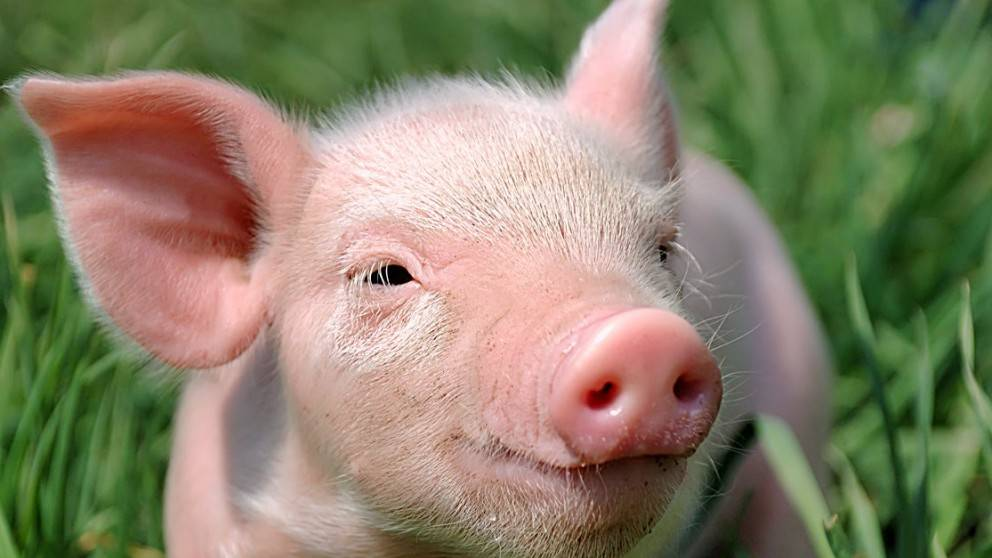
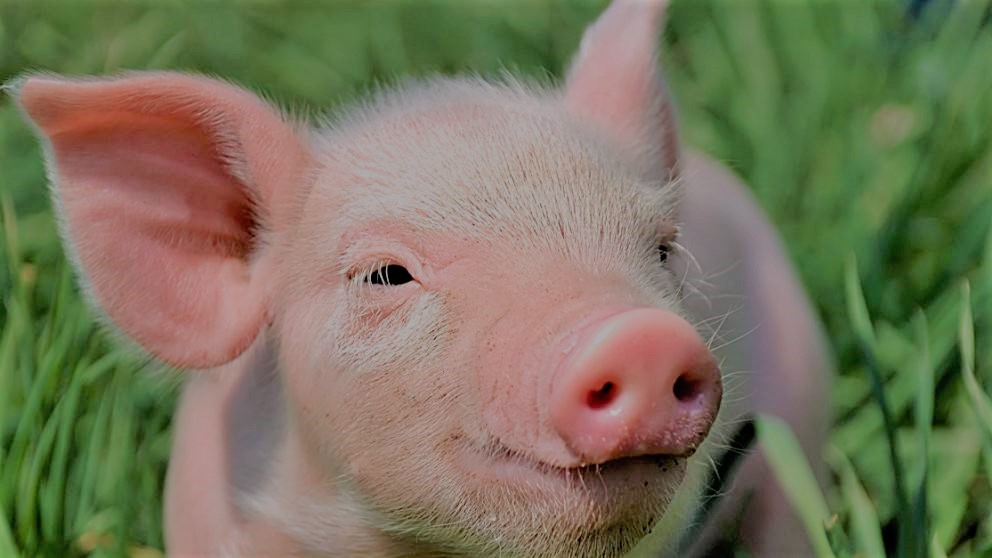
06.11.17 17:20

diff --git a/index.html b/index.html
@@ -14,7 +14,20 @@
 <script type="text/javascript" src="js/materialize.min.js"></script>
 <script> 
 $(document).ready(function(){
-  $('.slider').slider();
+  $('.slider').slider({
+  indicators: false,
+  height: 450,
+  interval: 4000});
+});
+</script>
+<script>
+$(window).scroll(function() {
+  if ($(window).scrollTop() > 400){
+	$('nav').addClass('scroll_nav');
+	}
+  else {
+	$('nav').removeClass('scroll_nav');
+  }
 });
 </script>
 <div class="navbar-fixed">
@@ -32,7 +45,7 @@ $(document).ready(function(){
 <div class="container">
   <div class="row">
   <!--SLIDER with 3-4 pict-->
-  <div class="slider col s12 m8 offset-m2">
+  <div class="slider col s12 m10 offset-m1">
     <ul class="slides">
 	  <li>
 	    <img class="img-slider" src="images/pig1.jpg">
@@ -65,20 +78,14 @@ $(document).ready(function(){
   <!-- 3 col with pict or icons -->
   <div class="row">
     <div class="col s12 m4">
-	  <div class="card green lighten-3">
-	    <div class="card-content white-text">
-		  <span class="card-title"></span>
-		  <p></p>
-		</div>
-	  </div>
-	</div>
 	</div>
 	<div class="col s12 m4">
 	</div>
 	<div class="col s12 m4">
 	</div>
   </div>
-  <div class="col s4 offset-s8">
+  <div class="z-depth-2 col s6 offset-s7">
+  <div class="col s9 offset-s1">
   <form>
   <div class="row">
 	<div class="input-field">
@@ -105,14 +112,35 @@ $(document).ready(function(){
   </div>
   </form>
   </div>
+  </div>
 	
   </div>
   
-  
-  <div class="footer">
-  
-  </div>
 </div>
-
+<footer class="page-footer light-blue lighten-2">
+          <div class="container">
+            <div class="row">
+              <div class="col l6 s12">
+                <h5 class="white-text">Footer Content</h5>
+                <p class="grey-text text-lighten-4">You can use rows and columns here to organize your footer content.</p>
+              </div>
+              <div class="col l4 offset-l2 s12">
+                <h5 class="white-text">Links</h5>
+                <ul>
+                  <li><a class="grey-text text-lighten-3" href="#!">Link 1</a></li>
+                  <li><a class="grey-text text-lighten-3" href="#!">Link 2</a></li>
+                  <li><a class="grey-text text-lighten-3" href="#!">Link 3</a></li>
+                  <li><a class="grey-text text-lighten-3" href="#!">Link 4</a></li>
+                </ul>
+              </div>
+            </div>
+          </div>
+          <div class="footer-copyright">
+            <div class="container">
+            © 2014 Copyright Text
+            <a class="grey-text text-lighten-4 right" href="#!">More Links</a>
+            </div>
+          </div>
+        </footer>
 </body>
 </html>

diff --git a/css/style.css b/css/style.css
@@ -10,16 +10,30 @@ label {
 	font-family: "Raleway" !important;
 }*/
 
+.scroll_nav {
+	/*height: 20px !important; */
+}
+
 body {
-	background-color: #bbdefb;
+    display: flex;
+    min-height: 100vh;
+    flex-direction: column;
+  }
+
+  main {
+    flex: 1 0 auto;
+  }
+
+body {
+	background-color: #e1f5fe;
 }
 .slider {
 	margin-top: 1em;
 }
 
 .img-slider {
-	background-color: black;
-	opacity: 0.6;
+	/* background-color: black; */
+	/* opacity: 0.6; */
 }
 @font-face {
 	font-family: "Raleway";
